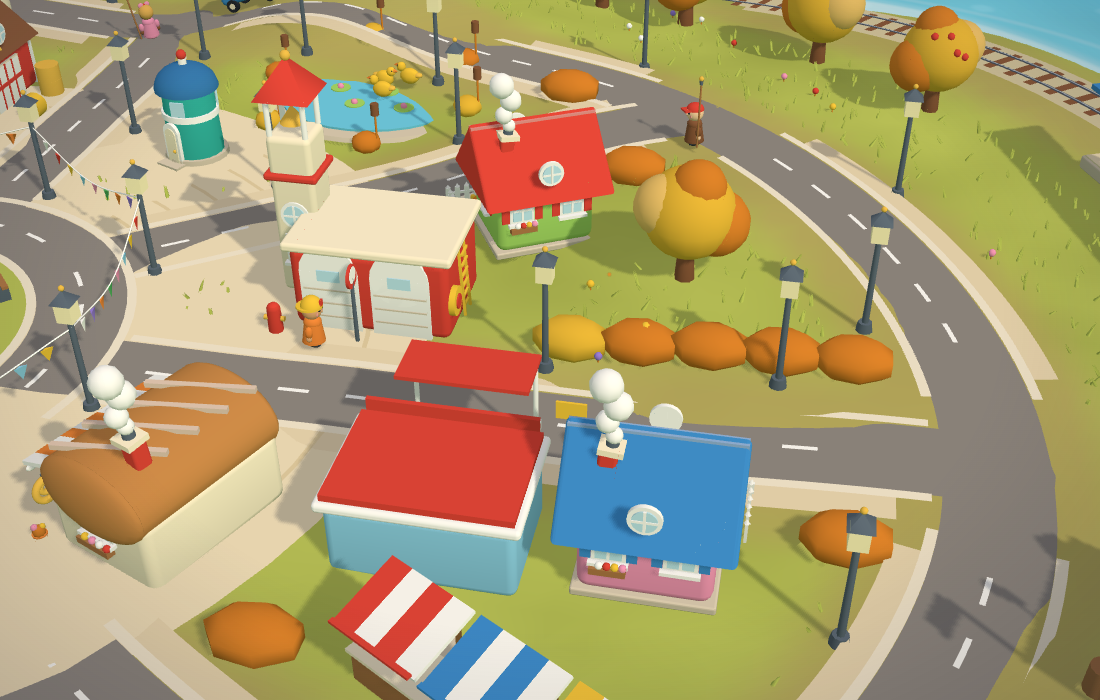
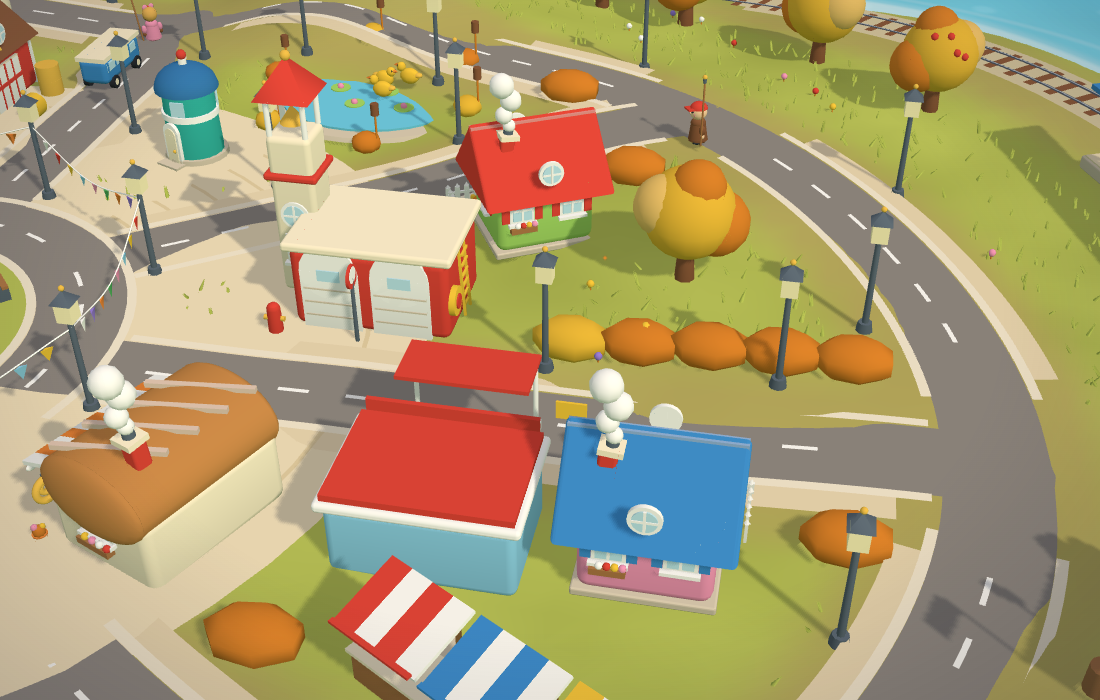
New Toy Town: fishing sold in town, professions, and a story of their own for everyone (#231)
* Toy Town: the billboard moves to the town's corner

On a rooftop near the front it hid the houses behind it. It now stands
on the grass at the right-hand corner, with only sky behind it.

Claude-Session: https://claude.ai/code/session_016DDzLFPb4BuxMAThu2pji2

* Toy Town: softer type and new feed-driven moments (pre-port snapshot)

Lighter rounded type, open-air cinema with the picture of the day, an
on-this-day time traveller, paper round, stargazer and fireflies, and
tap-a-person chat from the most-read pages. Built on the pre-v51 town;
to be ported onto master before publishing.

Claude-Session: https://claude.ai/code/session_016DDzLFPb4BuxMAThu2pji2

* Sync with master (drop the pre-port snapshot; its ideas are re-done on the current town)

* docs(toy-town): Claude START — miniature-photo look pass

Claude-Session: https://claude.ai/code/session_016DDzLFPb4BuxMAThu2pji2

* data: refresh attributed Toy Town headlines

* Toy Town: photographed-miniature lens, wet cobbles, dusk lanterns, flock trees, softer type

A new lens module renders the 3D town like a photo of a hand-built model:
tilt-shift blur with bokeh-weighted highlights around a focus band that
tightens on close-ups, ambient occlusion on desktop (auto-disabled on a
slow GPU), dusk-only bloom (sun glints on the river would haze by day),
an overflow clean pass, and a filmic grade replacing the CSS filter.
Roads become wet cobbles (relief + roughness maps with puddles); lanterns
[…]

diff --git a/toy-town-new.html b/toy-town-new.html
@@ -70,27 +70,28 @@ html.ui-off #set,html.ui-off #panel{display:none}
 #dbg{position:fixed;left:calc(8px + env(safe-area-inset-left,0px));bottom:calc(8px + env(safe-area-inset-bottom,0px));padding:3px 8px;border-radius:8px;background:rgba(0,0,0,.6);color:#fff;font:600 11px/1.3 ui-monospace,Menlo,Consolas,monospace;pointer-events:none;z-index:9}
 html.ui-off #stack,html.ui-off #jobs,html.ui-off #toast,html.ui-off #snd,html.ui-off #chip,html.ui-off #hint,html.ui-off #story,html.ui-off #card{display:none}
 </style>
-<script type="importmap" data-stamp="ae3d6b8222">
+<script type="importmap" data-stamp="b8203fc926">
 {"imports":{
   "three":"https://cdn.jsdelivr.net/npm/three@0.187.0/build/three.module.js",
   "three/addons/":"https://cdn.jsdelivr.net/npm/three@0.187.0/examples/jsm/",
-  "./assets/town2/build.mjs":"./assets/town2/build.mjs?v=ae3d6b8222",
-  "./assets/town2/curve.mjs":"./assets/town2/curve.mjs?v=ae3d6b8222",
-  "./assets/town2/def.mjs":"./assets/town2/def.mjs?v=ae3d6b8222",
-  "./assets/town2/graph.mjs":"./assets/town2/graph.mjs?v=ae3d6b8222",
-  "./assets/town2/inspect.mjs":"./assets/town2/inspect.mjs?v=ae3d6b8222",
-  "./assets/town2/memory.mjs":"./assets/town2/memory.mjs?v=ae3d6b8222",
-  "./assets/town2/nature.mjs":"./assets/town2/nature.mjs?v=ae3d6b8222",
-  "./assets/town2/needs.mjs":"./assets/town2/needs.mjs?v=ae3d6b8222",
-  "./assets/town2/quality.mjs":"./assets/town2/quality.mjs?v=ae3d6b8222",
-  "./assets/town2/settings.mjs":"./assets/town2/settings.mjs?v=ae3d6b8222",
-  "./assets/town2/sim.mjs":"./assets/town2/sim.mjs?v=ae3d6b8222",
-  "./assets/town2/sky.mjs":"./assets/town2/sky.mjs?v=ae3d6b8222",
-  "./assets/town2/smoke.mjs":"./assets/town2/smoke.mjs?v=ae3d6b8222",
-  "./assets/town2/sound.mjs":"./assets/town2/sound.mjs?v=ae3d6b8222",
-  "./assets/town2/stories.mjs":"./assets/town2/stories.mjs?v=ae3d6b8222",
-  "./assets/town2/track.mjs":"./assets/town2/track.mjs?v=ae3d6b8222",
-  "./assets/town2/weather.mjs":"./assets/town2/weather.mjs?v=ae3d6b8222"
+  "./assets/town2/build.mjs":"./assets/town2/build.mjs?v=b8203fc926",
+  "./assets/town2/curve.mjs":"./assets/town2/curve.mjs?v=b8203fc926",
+  "./assets/town2/def.mjs":"./assets/town2/def.mjs?v=b8203fc926",
+  "./assets/town2/graph.mjs":"./assets/town2/graph.mjs?v=b8203fc926",
+  "./assets/town2/inspect.mjs":"./assets/town2/inspect.mjs?v=b8203fc926",
+  "./assets/town2/lives.mjs":"./assets/town2/lives.mjs?v=b8203fc926",
+  "./assets/town2/memory.mjs":"./assets/town2/memory.mjs?v=b8203fc926",
+  "./assets/town2/nature.mjs":"./assets/town2/nature.mjs?v=b8203fc926",
+  "./assets/town2/needs.mjs":"./assets/town2/needs.mjs?v=b8203fc926",
+  "./assets/town2/quality.mjs":"./assets/town2/quality.mjs?v=b8203fc926",
+  "./assets/town2/settings.mjs":"./assets/town2/settings.mjs?v=b8203fc926",
+  "./assets/town2/sim.mjs":"./assets/town2/sim.mjs?v=b8203fc926",
+  "./assets/town2/sky.mjs":"./assets/town2/sky.mjs?v=b8203fc926",
+  "./assets/town2/smoke.mjs":"./assets/town2/smoke.mjs?v=b8203fc926",
+  "./assets/town2/sound.mjs":"./assets/town2/sound.mjs?v=b8203fc926",
+  "./assets/town2/stories.mjs":"./assets/town2/stories.mjs?v=b8203fc926",
+  "./assets/town2/track.mjs":"./assets/town2/track.mjs?v=b8203fc926",
+  "./assets/town2/weather.mjs":"./assets/town2/weather.mjs?v=b8203fc926"
 }}
 </script>
 </head>
@@ -109,7 +110,7 @@ html.ui-off #stack,html.ui-off #jobs,html.ui-off #toast,html.ui-off #snd,html.ui
 <div id="fail"><div>The new town could not start.<br><a href="toy-town.html">Open the current town</a>, or try a hard refresh (Ctrl+F5).<br><small id="why"></small><br><small>If it mentions WebGL, turn on hardware acceleration in the browser's settings (in Edge: edge://settings/system).</small></div></div>
 <script>if(/[?&]clean=1\b/.test(location.search))document.documentElement.classList.add('ui-off');</script>
 <script type="module">
-  import('./assets/town2/main.mjs?v=ae3d6b8222').catch(e => { console.error(e); document.getElementById('why').textContent = (e && (e.name + ': ' + e.message)) || String(e); document.getElementById('fail').style.display = 'flex'; });
+  import('./assets/town2/main.mjs?v=b8203fc926').catch(e => { console.error(e); document.getElementById('why').textContent = (e && (e.name + ': ' + e.message)) || String(e); document.getElementById('fail').style.display = 'flex'; });
 </script>
 </body>
 </html>

diff --git a/README.md b/README.md
@@ -118,7 +118,7 @@ People no longer walk on the river: every walking leg (events, gatherings, whims
 
 **Faster, same picture.** A profile of the merged city showed about 6,800 draw calls and 3.4 M triangles per frame. The static batcher now bakes plain painted colours into vertex colours (one shared material per surface finish), residents, cars and bicycles merge their plainly painted pieces inside each rigid node, and the sphere/capsule geometry used for people is trimmed (they are 20–60 px tall). Result: about 4,700 draw calls and 2.6 M triangles at the default view with a pixel-identical render (mean difference 0.05/255 against master). The simulation shares one per-frame snapshot of cars and walkers in the carriageway instead of rescanning every mover for every car (1.7 → 0.9 ms per simulated frame).
 
-**A new storybook town (preview).** `toy-town-new.html` (or `toy-town.html?town=new`) is a rebuild in a toy-box style: a roundabout square with a clock tower, a teapot café, a toy shop with a spinning top, a loaf-shaped bakery, a bandstand, a post office, a fire station, a round kiosk, a mushroom cottage and seventeen cottages, a school, a farm and barn, a garage, a harbour hut on a pier and a windmill on its hill. Eight streets run out from the square to a ring road like the spokes of a wheel, and a railway loops round the whole town with a four-car train that stops at four stations, carries commuters and a wagon of mail, milk, bread and parcels you send yourself (tap a building, press send, tap where it should go; a work board shows what is on the move), a week that follows the real day (a small Wednesday market, a big Sunday one, no school at weekends, seasonal weekend set pieces), a six-station train with a timetable and tracking for the parcels you send, station signals with a bell, and residents who get hungry, tired and lonely and go and do something about it; a gear button sets the speed of the day, how much work the train gets and the picture quality; the sea moves with foam on the shore, trees and grass sway in a breeze and the sky shades to a warm glow at dawn and dusk (and adapts to slow devices; `?debug=1` shows what the picture costs). Twenty-six named residents go door to door on the pavements by the hour (and sleep at night), keep to their own side and stop to say hello; two buses, taxis, a post van, a milk float, a tractor, an ice-cream van and an on-call fire engine travel the lanes, keeping gaps and taking turns at junctions. The day turns from dawn through dusk to a lit-window night with three lamplighters lighting the street lamps, it rains with umbrellas up and puddles, there are four seasons, two dozen small stories (some staged by the day's light headlines), you can tap anyone or anything to see what they are up to and follow them, a speaker button turns on synthesised wind, birds, crickets, rain and the clock striking, and the render resolution adapts on slow phones. The whole static town is one mesh (about 65 draw calls, 490 k triangles). The current town stays the default; `TOY_TOWN_NEW_SPEC.md` is the spec and what is still open (real-phone measurement, the switch).
+**A new storybook town (preview).** `toy-town-new.html` (or `toy-town.html?town=new`) is a rebuild in a toy-box style: a roundabout square with a clock tower, a teapot café, a toy shop with a spinning top, a loaf-shaped bakery, a bandstand, a post office, a fire station, a round kiosk, a mushroom cottage and seventeen cottages, a school, a farm and barn, a garage, a harbour hut on a pier and a windmill on its hill. Eight streets run out from the square to a ring road like the spokes of a wheel, and a railway loops round the whole town with a four-car train that stops at four stations, carries commuters and a wagon of mail, milk, bread and parcels you send yourself (tap a building, press send, tap where it should go; a work board shows what is on the move), a week that follows the real day (a small Wednesday market, a big Sunday one, no school at weekends, seasonal weekend set pieces), fishermen who fish from the pier and sell their catch in town, twenty-nine residents with jobs and stories of their own, a six-station train with a timetable and tracking for the parcels you send, station signals with a bell, and residents who get hungry, tired and lonely and go and do something about it; a gear button sets the speed of the day, how much work the train gets and the picture quality; the sea moves with foam on the shore, trees and grass sway in a breeze and the sky shades to a warm glow at dawn and dusk (and adapts to slow devices; `?debug=1` shows what the picture costs). Twenty-six named residents go door to door on the pavements by the hour (and sleep at night), keep to their own side and stop to say hello; two buses, taxis, a post van, a milk float, a tractor, an ice-cream van and an on-call fire engine travel the lanes, keeping gaps and taking turns at junctions. The day turns from dawn through dusk to a lit-window night with three lamplighters lighting the street lamps, it rains with umbrellas up and puddles, there are four seasons, two dozen small stories (some staged by the day's light headlines), you can tap anyone or anything to see what they are up to and follow them, a speaker button turns on synthesised wind, birds, crickets, rain and the clock striking, and the render resolution adapts on slow phones. The whole static town is one mesh (about 65 draw calls, 490 k triangles). The current town stays the default; `TOY_TOWN_NEW_SPEC.md` is the spec and what is still open (real-phone measurement, the switch).
 
 **Resident level of detail.** Plain residents have a second, far figure of three small meshes (body and two legs, about 350 triangles instead of about 10 000, built from the same colours; the legs still swing). Each resident is switched by its projected height on screen (far under 46 px, back to the full rig over 62 px), by one central pass over a registry, so it covers actors, ambient walkers and the city's people. At the default view 88 of 95 residents are far: draw calls 4,462 → 3,062 and triangles 2.56 M → 1.90 M, and close-ups still use the full rig. Residents with a kind, a trade, a briefcase or a hero route never switch.
 

diff --git a/TOY_TOWN_NEW_SPEC.md b/TOY_TOWN_NEW_SPEC.md
@@ -164,6 +164,12 @@ the stamp is stale. If the page cannot start, its panel now shows the real error
 - **Train**: six stations (Central, Harbour, School, Farm, East, Mill), so a lap is about 108 s. `sim.timetable()` guesses arrival times (`track.etas`, median error under 12 s in the test); the station building's card lists them and the train's card gives the next stop with its time. Cargo put down while the train is standing at the station is loaded at once.
 - **Parcel tracking** (`track.mjs`): `stageOf(cargo)` gives the step (six by train: waiting, to the station, at the station, on the train, at the far station, to the door; three if walked), shown in a yellow strip under the work board with dots, with a toast when it arrives; `freightLog` entries carry the cargo id.
 
+### Fishing, professions and life stories (tested)
+
+- **Fishing**: `pier` is a place (the end of the pier, a standing spot like a platform). Finn and Captain Salt have `pier` in their rounds; whoever stands there catches a fish every 11 s (85 percent, less in rain) into `sim.fishing.stock`. A `fish` freight template (`def.FREIGHT`, `fish: true`) only spawns when there is stock: a basket of up to 3 goes from the hut to the café, the market, the bakery, the school or a house; each fish delivered pays `FISH.price` coins (`sim.fishing = {stock, caught, sold, coins}`), and visitors to an open market buy a fish from the stock too. The work board shows fish sold and coins. Fishermen are drawn with a rod and float (hidden unless they are on the pier) facing out to sea.
+- **Professions**: every cast member has a `job` (from `lives.mjs`, shown on the card). New: Mrs Gill the fishmonger, Mr Apple the greengrocer and Dr Mint. On market days `def.VENDORS` (Gill, Apple, Farmer Hay) are sent to stand at their stalls from opening to closing (fish, apples, milk on the counters).
+- **Life stories** (`lives.mjs`, 31 of them): each one has a `star` (whom it is about); every cast member has at least one. They are ordinary stories needing only half their cast (`relaxed`). A card says "Their story right now" or "Stories told: n of m". In a simulated week at least 14 people have had a story of their own told.
+
 ## 5. Art rules
 
 - Fat, rounded, slightly wonky. No sharp corners: `bag.box` is a rounded box; roofs overhang.
@@ -194,6 +200,7 @@ spheres 8; keep that discipline (the first version was 1.05 M triangles from 3-s
 - `sim`, `scene`, `camera`, `renderer`, `view`
 - `info()` → `{calls, triangles, residentsOut, clock, pixelRatio, story, rain, wet, lampsLit, season}`
 - `tapAt(clientX, clientY)`, `selected()`, `select(obj|null)`, `project(x, z, y)` → client coordinates of a ground point
+- `rodsOut()` (fishing rods showing)
 - `trackText()`, `trackState()`; `?day=`
 - `tier()`, `gov` (the governor), `setQuality(tier|'auto')`, `tufts`, `U` (shader inputs); `?quality=` and `?debug=1`
 - `settings`, `applySettings()`; `info()` also has `market, marketVisits`

diff --git a/TOY_TOWN_COLLAB.md b/TOY_TOWN_COLLAB.md
@@ -1229,3 +1229,11 @@ A `START` does not prohibit parallel edits. Avoid stepping on each other's uncom
 - **Tests**: week and weekday wrap, school closed at weekends, set pieces in every season and only on their days, memory unit tests and after two days friends and favourite places exist, timetable accuracy against real arrivals, stages move forward and the parcel is logged under its id; visual: Sunday market open and Monday shut with six stations, the tracker on desktop and phone (no overlap with the buttons).
 - **Not verified**: a real phone; the feel of friendships (the numbers are my guesses).
 
+### 2026-11-10 · Claude · DONE (new storybook town, follow-up 11: fishing, professions and a story for everyone)
+- **Request (owner)**: fishing should be part of the town and a fisherman must catch fish and sell them inside the town; bring in different professions and give each person their stories.
+- **Fishing**: Finn and Captain Salt fish from the end of the pier (rod and float, facing the sea); the catch waits at the hut and goes to the café, the market, the bakery, the school or a house as baskets of fish on the same freight chain as mail and bread; each fish sold pays 2 coins, shown on the work board. Market visitors buy fish too.
+- **Professions**: everybody has a job line on their card; new residents Mrs Gill (fishmonger), Mr Apple (greengrocer) and Dr Mint (house calls and the school); on market days Gill, Apple and Farmer Hay stand at their stalls.
+- **Stories**: 31 personal stories (`lives.mjs`), at least one per person (the baker tests a recipe, the constable loses his helmet, the stationmaster repaints the timetable, the doctor does house calls, and so on); cards show the story being told or how many have been told.
+- **Side effects I had to handle**: the pier is walkable (tests allow walkers there), Finn is no longer a general carrier so he keeps fishing, first-morning starts are staggered by `i % 13` (late cast members used to leave around 10:00), crowded-scene draw calls rose to about 120 (budget raised to 135), and a few simulation thresholds moved (outings, rides) because the cast grew.
+- **Not verified**: a real phone; the fishermen's rod is small at the default zoom; the amount of fish and coins is a guess.
+
